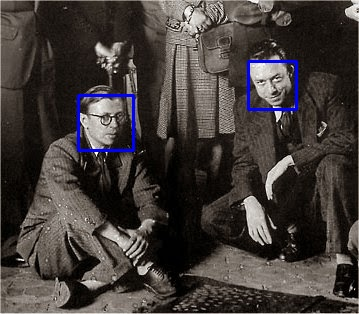
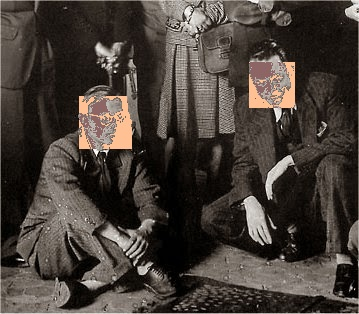
Filter: Eigener Filter verwendet um Haar cascade zu überlisten.
Main(): Angepasst.

Changed region(s): [[0.1838, 0.2866, 0.3983, 0.4873], [0.6741, 0.172, 0.8579, 0.3726]]

diff --git a/main.py b/main.py
@@ -5,35 +5,38 @@ import calc_diff
 
 class Main(object):
 
-    def __init__(self, pos, boost):
+    def __init__(self, imgName, boost):
         self.boost = boost
         self.filter = filter.Filter()
-        self.position = pos
+        self.img_name = imgName
 
     def load(self):
         # Load the cascade
         face_cascade = cv2.CascadeClassifier('haarcascade_frontalface_default.xml')
         # Read the input image
         #img_name = sys.argv[1]
-        img_name = "test2.jpg"
-        img = cv2.imread(img_name)
+        img = cv2.imread(self.img_name)
+        # Detect faces
+        faces = face_cascade.detectMultiScale(img, 1.1, 4)
         # blur defined areas in a picture
-        for p in self.position:
+        for (x, y, w, h) in faces:
             # Method: apply() from class: Filter
-            blured = self.filter.apply(img, [p[0], p[1], p[2], p[3]], [self.boost, self.boost])
+            blured = self.filter.apply(img, [x, y, w, h], [self.boost, self.boost])
         # Convert into grayscale
         gray = cv2.cvtColor(blured, cv2.COLOR_BGR2GRAY)
+
         # Detect faces
         faces = face_cascade.detectMultiScale(gray, 1.1, 4)
+
         # Draw rectangle around the faces
-       # for (x, y, w, h) in faces:
-           # cv2.rectangle(img, (x, y), (x+w, y+h), (255, 0, 0), 2)
+        for (x, y, w, h) in faces:
+            cv2.rectangle(img, (x, y), (x+w, y+h), (255, 0, 0), 2)
         # Display the output
-        cv2.imwrite('edited_'+img_name, img)
+        cv2.imwrite('edited_'+self.img_name, img)
         cv2.imshow('img', img)
 
         # Print error
-        print(calc_diff.rms(cv2.imread(img_name), img))
+        print(calc_diff.rms(cv2.imread(self.img_name), img))
         cv2.waitKey()
 
     # Zusätzliche Methoden
@@ -44,13 +47,9 @@ class Main(object):
 if __name__ == '__main__':
     # Hauptprogramm startet mit diesen Zeilen
     # Beispiel mit Filterstufe 1
-    m = Main([[817, 73, 177, 177], [600, 144, 154, 154], [365, 166, 156, 156], [68,  184, 163, 163]], 1)
+    add = 50
+    m = Main("test2.jpg", 1)
     m.load()
 
-    # Beispiel mit Filterstufe 10
-    m2 = Main([[817, 73, 177, 177], [600, 144, 154, 154], [365, 166, 156, 156], [68, 184, 163, 163]], 10)
-    m2.load()
-
-    # Beispiel mit Filterstufe 43
-    m2 = Main([[817, 73, 177, 177], [600, 144, 154, 154], [365, 166, 156, 156], [68, 184, 163, 163]], 43)
-    m2.load()
+    m = Main("test.jpg", 1)
+    m.load()

diff --git a/filter_Task5.py b/filter_Task5.py
@@ -1,5 +1,5 @@
 import cv2
-
+import numpy as np
 '''
 '''
 class Filter:
@@ -24,10 +24,43 @@ class Filter:
         w = coordinates[2]
         h = coordinates[3]
         crop_img = image[y:y + h, x:x + w]
-        blur_img = cv2.blur(crop_img, (boost[0], boost[1]))
+        blur_img = self.apply2_0(crop_img)
+        # blur_img = self.shiftPixels(crop_img)
+        # blur_img = cv2.blur(crop_img, (boost[0], boost[1]))
         new_image[y:y + h, x:x + w] = blur_img
         return new_image
 
-    def apply2_0(self):
-        return "tut noch nichts"
+    def apply2_0(self, crop_img):
+        dunkel = 100
+        hell = 180
+        newImage = crop_img
+        for i in range(1, crop_img.shape[0]-1):
+            for j in range(1, crop_img.shape[1]-1):
+                if i % 1 == 0 and j % 1 == 0:
+                    if int(crop_img[i, j][0]) > hell and int(crop_img[i, j][1]) > hell and \
+                            int(crop_img[i, j][2]) > hell:
+                        newImage[i, j][2] = 141
+                        newImage[i, j][1] = 101
+                        newImage[i, j][0] = 101
+                    if int(crop_img[i, j][0]) < dunkel and int(crop_img[i, j][1]) < dunkel and \
+                            int(crop_img[i, j][2]) < dunkel:
+                        newImage[i, j][2] = 255
+                        newImage[i, j][1] = 193
+                        newImage[i, j][0] = 148
+                j += 1
+            i += 1
+        return crop_img
+
+    def shiftPixels(self, crop_img):
+        diagonale = 0
+        for i in range(1, crop_img.shape[0]):
+            for j in range(1, crop_img.shape[1]):
+                if j % 2 == 0 and i % 2 == 0:       # diagonale < j für Dreiecke
+                    crop_img[i, j][0] = 0
+                    crop_img[i, j][1] = 0
+                    crop_img[i, j][2] = 0
+                j += 1
+            i += 1
+            diagonale += 1
+        return crop_img
 
